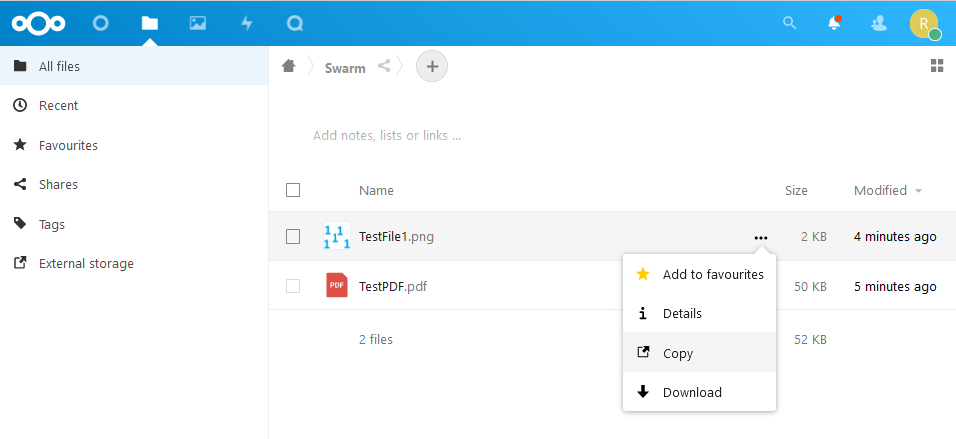
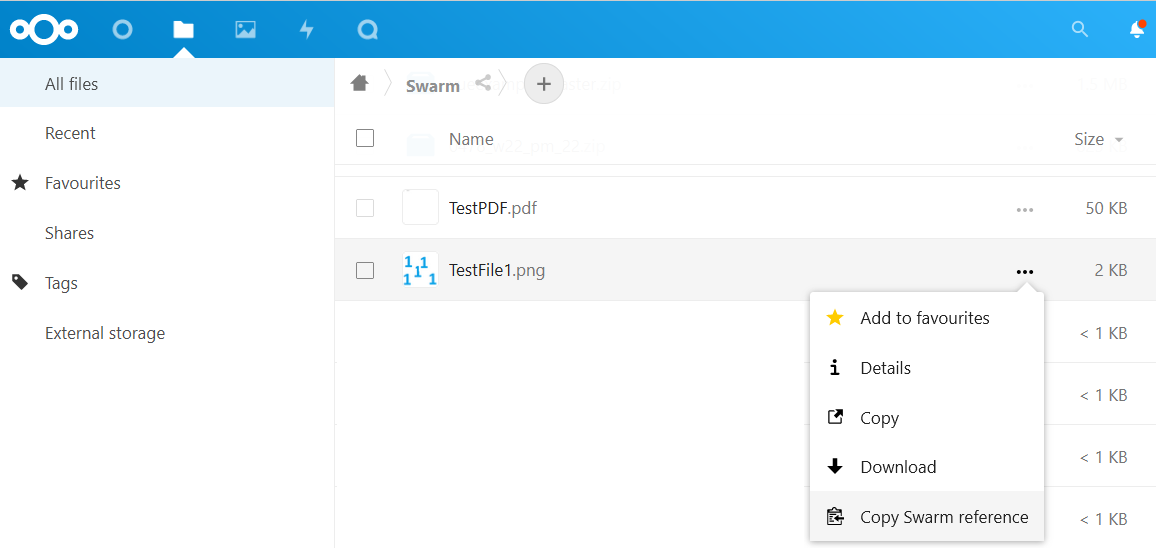
Changes to PR

diff --git a/js/fileactions.js b/js/fileactions.js
@@ -1,10 +1,22 @@
 /*
- * Copyright (c) 2014
+ * @copyright Copyright (c) 2023, MetaProvide Holding EKF
  *
- * This file is licensed under the Affero General Public License version 3
- * or later.
+ * @author Ron Trevor <ecoron@proton.me>
  *
- * See the COPYING-README file.
+ * @license GNU AGPL version 3 or any later version
+ *
+ *  This program is free software: you can redistribute it and/or modify
+ *  it under the terms of the GNU Affero General Public License as
+ *  published by the Free Software Foundation, either version 3 of the
+ *  License, or (at your option) any later version.
+ *
+ *  This program is distributed in the hope that it will be useful,
+ *  but WITHOUT ANY WARRANTY; without even the implied warranty of
+ *  MERCHANTABILITY or FITNESS FOR A PARTICULAR PURPOSE.  See the
+ *  GNU Affero General Public License for more details.
+ *
+ *  You should have received a copy of the GNU Affero General Public License
+ *  along with this program. If not, see <http://www.gnu.org/licenses/>.
  *
  */
 window.addEventListener('DOMContentLoaded', () => {
@@ -37,11 +49,11 @@ window.addEventListener('DOMContentLoaded', () => {
 							navigator.clipboard.writeText(swarmref).then(
 								() => {
 									/* clipboard successfully set */
-									OC.dialogs.info(t('files_external_ethswarm', 'Copied: ' + swarmref), t('files_external_ethswarm', 'Swarm reference to clipboard'));
+									OC.dialogs.info(t('files_external_ethswarm', 'The following Swarm reference has been copied to the clipboard: ') + swarmref, t('files_external_ethswarm', 'Swarm reference'));
 								},
 								() => {
 									/* clipboard write failed */
-									OC.dialogs.info(t('files_external_ethswarm', 'Unable to copy:' + swarmref), t('files_external_ethswarm', 'Swarm reference to clipboard'));
+									OC.dialogs.info(t('files_external_ethswarm', 'Unable to write to the clipboard, you can manually copy the Swarm reference below: ' + swarmref), t('files_external_ethswarm', 'Swarm reference'));
 								}
 							);
 						}
@@ -49,21 +61,9 @@ window.addEventListener('DOMContentLoaded', () => {
 				}
 			});
 		},
-		init: function (mountPointList) {
-			// Logic to show/hide the menu. Obtain querystring to determine storage name
-			if (!location.search) {
-				return;
-			}
-			mountdir = new URLSearchParams(location.search).get("dir").split('/')[1];
-			isSwarmMount = mountPointList?.find(el => el.mount_point == mountdir && el.backend == "files_external_ethswarm");
-			if (isSwarmMount) {
-				actionSwarm.registerMenu('all');
-			}
-		},
 	}
 	// For initial page load
 	if (OCA?.Files_External?.StatusManager) {
-		//OCA.Files_External.StatusManager.getMountPointList(actionSwarm.init);
 		OCA.Files_External.StatusManager.getMountPointList(actionSwarm.registerMenu('all'));
 	}
 });

diff --git a/js/menuobserver.js b/js/menuobserver.js
@@ -1,10 +1,22 @@
 /*
- * Copyright (c) 2014
+ * @copyright Copyright (c) 2023, MetaProvide Holding EKF
  *
- * This file is licensed under the Affero General Public License version 3
- * or later.
+ * @author Ron Trevor <ecoron@proton.me>
  *
- * See the COPYING-README file.
+ * @license GNU AGPL version 3 or any later version
+ *
+ *  This program is free software: you can redistribute it and/or modify
+ *  it under the terms of the GNU Affero General Public License as
+ *  published by the Free Software Foundation, either version 3 of the
+ *  License, or (at your option) any later version.
+ *
+ *  This program is distributed in the hope that it will be useful,
+ *  but WITHOUT ANY WARRANTY; without even the implied warranty of
+ *  MERCHANTABILITY or FITNESS FOR A PARTICULAR PURPOSE.  See the
+ *  GNU Affero General Public License for more details.
+ *
+ *  You should have received a copy of the GNU Affero General Public License
+ *  along with this program. If not, see <http://www.gnu.org/licenses/>.
  *
  */
 window.addEventListener('DOMContentLoaded', () => {

diff --git a/lib/Sabre/PropfindPlugin.php b/lib/Sabre/PropfindPlugin.php
@@ -1,24 +1,24 @@
 <?php
-
 declare(strict_types=1);
-
-/**
- * @copyright 2022,
+/*
+ * @copyright Copyright (c) 2023, MetaProvide Holding EKF
+ *
+ * @author Ron Trevor <ecoron@proton.me>
  *
  * @license GNU AGPL version 3 or any later version
  *
- * This program is free software: you can redistribute it and/or modify
- * it under the terms of the GNU Affero General Public License as
- * published by the Free Software Foundation, either version 3 of the
- * License, or (at your option) any later version.
+ *  This program is free software: you can redistribute it and/or modify
+ *  it under the terms of the GNU Affero General Public License as
+ *  published by the Free Software Foundation, either version 3 of the
+ *  License, or (at your option) any later version.
  *
- * This program is distributed in the hope that it will be useful,
- * but WITHOUT ANY WARRANTY; without even the implied warranty of
- * MERCHANTABILITY or FITNESS FOR A PARTICULAR PURPOSE. See the
- * GNU Affero General Public License for more details.
+ *  This program is distributed in the hope that it will be useful,
+ *  but WITHOUT ANY WARRANTY; without even the implied warranty of
+ *  MERCHANTABILITY or FITNESS FOR A PARTICULAR PURPOSE.  See the
+ *  GNU Affero General Public License for more details.
  *
- * You should have received a copy of the GNU Affero General Public License
- * along with this program. If not, see <http://www.gnu.org/licenses/>.
+ *  You should have received a copy of the GNU Affero General Public License
+ *  along with this program. If not, see <http://www.gnu.org/licenses/>.
  *
  */
 namespace OCA\Files_External_Ethswarm\Sabre;

diff --git a/lib/Service/EthswarmService.php b/lib/Service/EthswarmService.php
@@ -1,5 +1,25 @@
 <?php
-
+/*
+ * @copyright Copyright (c) 2023, MetaProvide Holding EKF
+ *
+ * @author Ron Trevor <ecoron@proton.me>
+ *
+ * @license GNU AGPL version 3 or any later version
+ *
+ *  This program is free software: you can redistribute it and/or modify
+ *  it under the terms of the GNU Affero General Public License as
+ *  published by the Free Software Foundation, either version 3 of the
+ *  License, or (at your option) any later version.
+ *
+ *  This program is distributed in the hope that it will be useful,
+ *  but WITHOUT ANY WARRANTY; without even the implied warranty of
+ *  MERCHANTABILITY or FITNESS FOR A PARTICULAR PURPOSE.  See the
+ *  GNU Affero General Public License for more details.
+ *
+ *  You should have received a copy of the GNU Affero General Public License
+ *  along with this program. If not, see <http://www.gnu.org/licenses/>.
+ *
+ */
 namespace OCA\Files_External_Ethswarm\Service;
 
 use OCP\Files\StorageNotAvailableException;
@@ -35,5 +55,4 @@ class EthswarmService {
 
 		return $swarmFile->getSwarmReference();
 	}
-
 }

diff --git a/README.md b/README.md
@@ -54,6 +54,7 @@ Using the plugin, the main file operations that are available in Nextcloud are:
 -   Download and view files
 -   Copy/Move files from any External Storage to a Bee node
 -   Copy files from a Bee node to any External Storage
+-   View and copy the unique swarm reference to the clipboard for any file stored on a Bee node
 
 ### Settings
 
@@ -98,7 +99,11 @@ Once setup and configured, the Bee node is ready to use.
 
 ![Copy file](assets/images/swarm_CopyMove.png "Copy file")
 
-<em>Upload file to swarm in Nextcloud</em>
+-   Right-click on a swarm file to copy the swarm reference (or hash) to the clipboard. Alternatively click the 3 dots of the Actions menu and select the menu option "Copy swarm reference". The swarm reference is the unique address of the file on the swarm.
+
+![Copy swarm reference to clipboard](assets/images/swarm_Files_CopySwarmRef "Copy swarm reference to clipboard")
+
+<em>Copy swarm reference to clipboard</em>
 
 ## License
 
